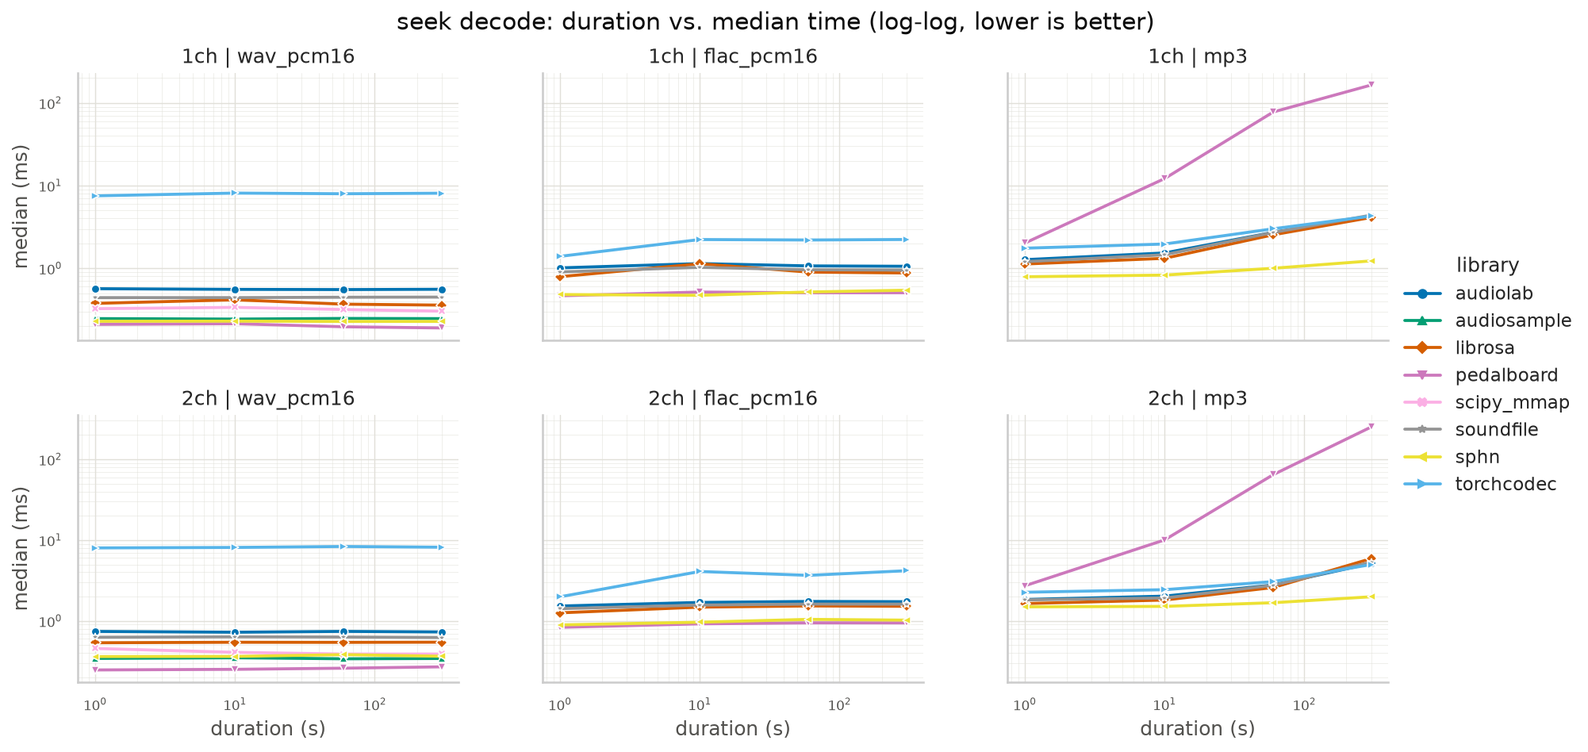
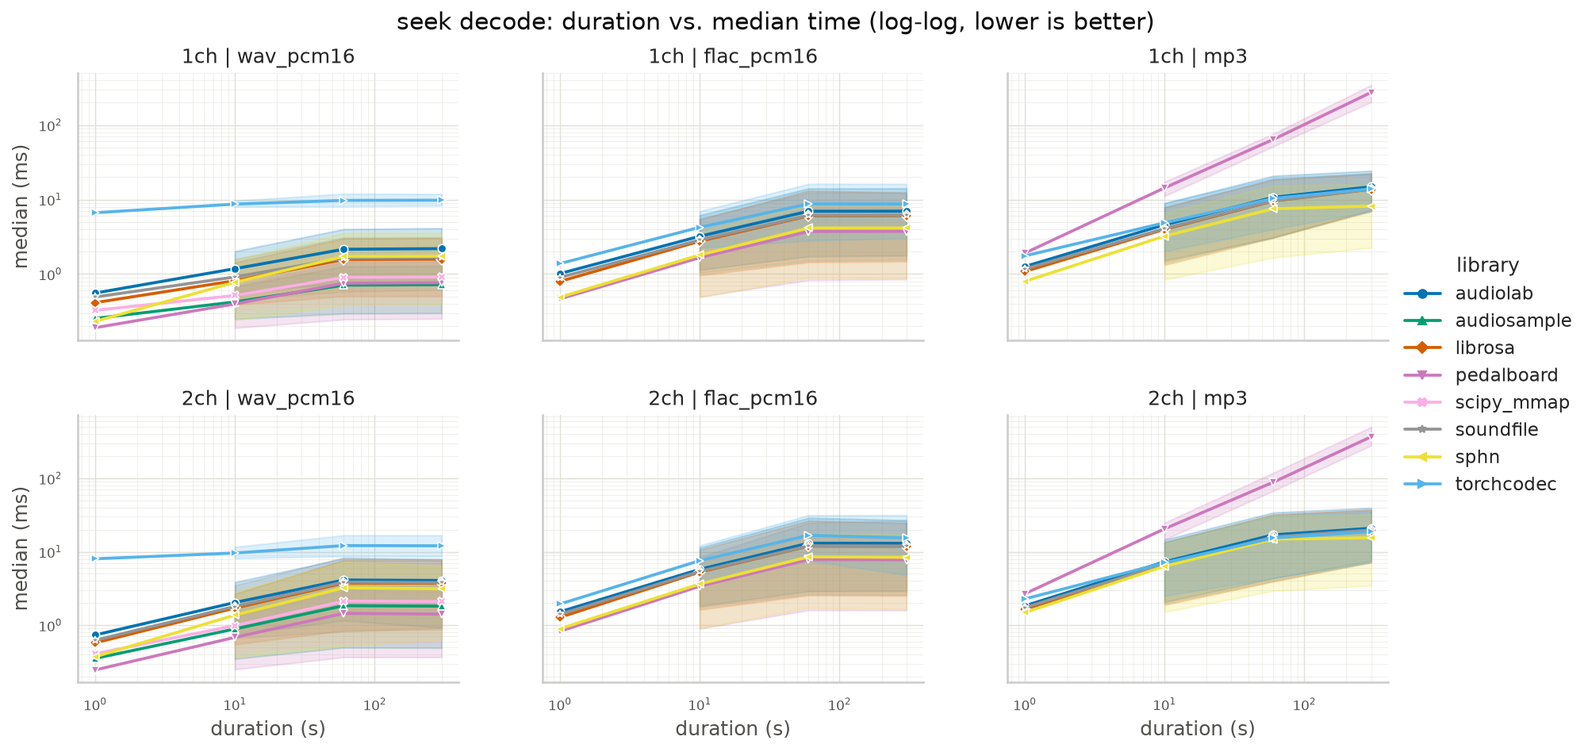
seektable

diff --git a/results/report.md b/results/report.md
@@ -12,22 +12,22 @@ Timings below are wall-clock, warm-page-cache decodes of a locally generated **s
 | PyTorch | 2.14.0+cu130 |
 | FFmpeg | ffmpeg version n8.0.1-48-g0592be14ff-20260116 Copyright (c) 2000-2025 the FFmpeg developers |
 | DYLD_FALLBACK_LIBRARY_PATH | - |
-| FLAC seektables | absent (seeking must scan frames) |
+| FLAC seektables | present (seeking can jump) |
 
 ## Libraries
 
-| Library | Version | Available | Seek | Notes | Error |
-| --- | --- | --- | --- | --- | --- |
-| soundfile | 0.14.0 | yes | yes | the correctness reference every other loader is checked against | - |
-| librosa | 1.0.0 | yes | yes | - | - |
-| scipy | 1.18.1 | yes | no | WAV only; scipy.io.wavfile has no seek API | - |
-| scipy_mmap | 1.18.1 | yes | yes | WAV only, memory-mapped; scipy's mmap mode cannot open 24-bit ('3-byte container') WAV, which surfaces as a decode error for that subtype | - |
-| audioread | 3.1.0 | yes | no | full-file only, no seek API; audioread always yields 16-bit PCM buffers, so it cannot pass the exact gate for 24-bit or float32 WAV sources | - |
-| pedalboard | 0.9.25 | yes | yes | - | - |
-| torchcodec | 0.16.0+cu130 | yes | yes | imports cleanly even when its native FFmpeg bindings can't load; only the decode smoke test below catches that (see docs/refactor-design.md) | - |
-| audiolab | 0.5.2 | yes | yes | - | - |
-| audiosample | 2.2.12 | yes | yes | integer-PCM WAV only: float WAV, FLAC and MP3 go through its PyAV path, which is incompatible with PyAV 18 (Flags.FAST_SEEK) | - |
-| sphn | 0.2.1 | yes | yes | MP3 decode returns a different frame count than soundfile's reference (decoder-delay disagreement); graded by the relaxed MP3 gate | - |
+| Library | Version | Available | Seek | Bytes | Notes | Error |
+| --- | --- | --- | --- | --- | --- | --- |
+| soundfile | 0.14.0 | yes | yes | yes | the correctness reference every other loader is checked against | - |
+| librosa | 1.0.0 | yes | yes | yes | - | - |
+| scipy | 1.18.1 | yes | no | yes | WAV only; scipy.io.wavfile has no seek API | - |
+| scipy_mmap | 1.18.1 | yes | yes | no | WAV only, memory-mapped; scipy's mmap mode cannot open 24-bit ('3-byte container') WAV, which surfaces as a decode error for that subtype | - |
+| audioread | 3.1.0 | yes | no | no | full-file only, no seek API; audioread always yields 16-bit PCM buffers, so it cannot pass the exact gate for 24-bit or float32 WAV sources | - |
+| pedalboard | 0.9.25 | yes | yes | yes | - | - |
+| torchcodec | 0.16.0+cu130 | yes | yes | yes | imports cleanly even when its native FFmpeg bindings can't load; only the decode smoke test below catches that (see docs/refactor-design.md) | - |
+| audiolab | 0.5.2 | yes | yes | yes | - | - |
+| audiosample | 2.2.12 | yes | yes | yes | integer-PCM WAV only: float WAV, FLAC and MP3 go through its PyAV path, which is incompatible with PyAV 18 (Flags.FAST_SEEK) | - |
+| sphn | 0.2.1 | yes | yes | no | MP3 decode returns a different frame count than soundfile's reference (decoder-delay disagreement); graded by the relaxed MP3 gate | - |
 
 **MP3 is graded by a relaxed gate** (decoded duration within 50 ms of the reference, RMS level within 0.5 dB on the common length) rather than the sample-exact gate WAV and FLAC are held to (1.5 LSB for integer PCM, `atol=1e-7` for float32), because MP3 decoders disagree on encoder delay and never match sample-for-sample. MP3 results therefore carry a weaker correctness guarantee than the WAV/FLAC results in this report.
 
@@ -35,79 +35,166 @@ Timings below are wall-clock, warm-page-cache decodes of a locally generated **s
 
 | Duration (s) | Channels | soundfile | librosa | scipy | scipy_mmap | audioread | pedalboard | torchcodec | audiolab | audiosample | sphn |
 | --- | --- | --- | --- | --- | --- | --- | --- | --- | --- | --- | --- |
-| 1 | 1 | 0.38 ms [0.36–0.56] | 0.38 ms [0.37–0.40] | 0.26 ms [0.22–0.28] | 0.30 ms [0.28–0.32] | 0.40 ms [0.37–0.44] | 0.19 ms [0.18–0.26] | 7.30 ms [6.55–7.89] | 0.60 ms [0.58–0.61] | 0.23 ms [0.22–0.25] | 0.25 ms [0.24–0.26] |
-| 1 | 2 | 0.56 ms [0.54–0.81] | 0.54 ms [0.52–0.59] | 0.33 ms [0.32–0.39] | 0.43 ms [0.40–0.46] | 0.54 ms [0.53–0.63] | 0.25 ms [0.24–0.28] | 8.48 ms [7.90–9.25] | 0.78 ms [0.75–0.80] | 0.32 ms [0.32–0.34] | 0.39 ms [0.38–0.40] |
-| 10 | 1 | 1.45 ms [1.42–1.50] | 1.45 ms [1.41–1.49] | 0.82 ms [0.79–0.88] | 0.83 ms [0.77–0.90] | 2.64 ms [2.21–2.77] | 0.71 ms [0.70–0.85] | 9.72 ms [9.65–9.99] | 2.05 ms [1.99–2.14] | 0.64 ms [0.62–0.68] | 1.71 ms [1.69–1.75] |
-| 10 | 2 | 3.35 ms [3.29–3.41] | 3.43 ms [3.36–3.50] | 1.91 ms [1.84–2.01] | 1.94 ms [1.87–2.07] | 3.93 ms [3.84–4.58] | 1.39 ms [1.32–1.67] | 11.57 ms [11.45–11.73] | 3.91 ms [3.84–4.04] | 1.66 ms [1.64–1.67] | 3.06 ms [3.04–3.17] |
-| 60 | 1 | 7.39 ms [7.31–7.56] | 7.43 ms [7.38–7.53] | 4.03 ms [3.90–4.21] | 3.75 ms [3.70–3.87] | 13.11 ms [12.43–15.11] | 3.99 ms [3.72–4.63] | 18.93 ms [18.18–19.23] | 9.97 ms [9.64–10.13] | 3.04 ms [3.00–3.14] | 9.75 ms [9.71–9.91] |
-| 60 | 2 | 19.57 ms [19.23–20.08] | 19.56 ms [19.48–19.79] | 11.36 ms [11.18–11.59] | 11.15 ms [10.95–11.77] | 23.82 ms [22.56–24.93] | 7.96 ms [7.57–9.04] | 29.84 ms [29.53–31.70] | 19.89 ms [19.66–20.44] | 9.21 ms [9.17–9.30] | 18.42 ms [18.38–18.60] |
-| 300 | 1 | 44.66 ms [44.21–45.27] | 43.80 ms [43.58–43.95] | 34.35 ms [33.20–37.52] | 29.97 ms [29.21–31.19] | 79.92 ms [77.88–87.37] | 27.43 ms [26.11–28.27] | 106.75 ms [84.65–109.12] | 53.81 ms [53.35–54.60] | 20.86 ms [20.54–21.16] | 82.42 ms [82.23–82.78] |
-| 300 | 2 | 126.38 ms [126.10–126.70] | 127.54 ms [126.99–128.44] | 122.33 ms [118.35–124.99] | 102.43 ms [101.03–103.57] | 182.11 ms [174.66–185.50] | 55.96 ms [55.51–56.72] | 154.16 ms [151.89–174.35] | 112.30 ms [111.53–112.90] | 100.42 ms [100.05–100.91] | 155.32 ms [154.93–156.88] |
+| 1 | 1 | 0.41 ms [0.38–0.47] | 0.40 ms [0.37–0.42] | 0.24 ms [0.24–0.25] | 0.32 ms [0.31–0.33] | 0.41 ms [0.40–0.41] | 0.19 ms [0.18–0.20] | 6.64 ms [6.59–6.72] | 0.58 ms [0.58–0.61] | 0.23 ms [0.23–0.24] | 0.27 ms [0.26–0.31] |
+| 1 | 2 | 0.56 ms [0.55–0.57] | 0.55 ms [0.53–0.58] | 0.34 ms [0.33–0.37] | 0.41 ms [0.39–0.42] | 0.55 ms [0.54–0.56] | 0.24 ms [0.24–0.25] | 7.98 ms [7.88–8.19] | 0.77 ms [0.75–0.79] | 0.34 ms [0.33–0.34] | 0.40 ms [0.39–0.40] |
+| 10 | 1 | 1.47 ms [1.46–2.07] | 1.44 ms [1.42–1.49] | 0.79 ms [0.79–0.83] | 0.80 ms [0.79–0.81] | 2.20 ms [2.16–2.25] | 0.70 ms [0.69–0.72] | 9.75 ms [9.68–9.79] | 2.06 ms [2.03–2.10] | 0.66 ms [0.65–0.69] | 1.66 ms [1.64–1.69] |
+| 10 | 2 | 3.42 ms [3.39–3.50] | 3.45 ms [3.38–3.51] | 1.82 ms [1.82–1.95] | 1.82 ms [1.79–1.86] | 3.81 ms [3.78–3.85] | 1.32 ms [1.32–1.33] | 11.68 ms [11.50–11.97] | 3.88 ms [3.84–3.93] | 1.67 ms [1.65–1.73] | 3.08 ms [3.05–3.09] |
+| 60 | 1 | 7.36 ms [7.29–7.42] | 7.36 ms [7.32–7.47] | 3.99 ms [3.94–4.16] | 3.83 ms [3.78–3.87] | 12.37 ms [12.29–12.47] | 3.61 ms [3.60–3.76] | 18.82 ms [18.15–19.16] | 9.62 ms [9.47–9.83] | 2.98 ms [2.94–3.36] | 9.90 ms [9.85–10.02] |
+| 60 | 2 | 19.74 ms [19.63–19.98] | 19.66 ms [19.47–19.82] | 11.56 ms [11.35–11.61] | 11.23 ms [10.97–11.26] | 23.06 ms [22.95–23.11] | 7.47 ms [7.44–7.67] | 29.93 ms [29.74–30.56] | 19.98 ms [19.49–20.56] | 9.35 ms [9.33–9.41] | 19.47 ms [19.39–19.70] |
+| 300 | 1 | 44.99 ms [44.66–45.20] | 43.71 ms [43.52–43.96] | 32.37 ms [32.33–32.73] | 28.95 ms [28.89–29.15] | 73.87 ms [73.63–74.28] | 25.65 ms [25.48–27.39] | 80.44 ms [76.24–105.06] | 53.97 ms [53.18–54.22] | 20.89 ms [20.47–20.93] | 83.62 ms [83.41–83.95] |
+| 300 | 2 | 128.87 ms [128.57–129.67] | 129.26 ms [128.94–129.54] | 111.93 ms [111.65–113.05] | 98.58 ms [98.37–98.68] | 171.75 ms [171.55–172.06] | 53.07 ms [52.71–54.46] | 154.53 ms [154.10–155.58] | 113.05 ms [111.95–113.27] | 100.51 ms [100.39–101.34] | 154.91 ms [154.50–155.30] |
 
 ## wav_pcm16 / seek
 
+| Duration (s) | Channels | Chunk (s) | soundfile | librosa | scipy | scipy_mmap | audioread | pedalboard | torchcodec | audiolab | audiosample | sphn |
+| --- | --- | --- | --- | --- | --- | --- | --- | --- | --- | --- | --- | --- |
+| 1 | 1 | 1.0 | 0.49 ms [0.44–0.52] | 0.41 ms [0.38–0.43] | unsupported | 0.33 ms [0.32–0.33] | unsupported | 0.19 ms [0.19–0.20] | 6.66 ms [6.56–6.84] | 0.56 ms [0.54–0.59] | 0.25 ms [0.25–0.27] | 0.23 ms [0.23–0.26] |
+| 1 | 2 | 1.0 | 0.62 ms [0.61–0.72] | 0.57 ms [0.53–0.58] | unsupported | 0.41 ms [0.39–0.43] | unsupported | 0.25 ms [0.24–0.25] | 8.02 ms [7.85–8.16] | 0.74 ms [0.72–0.76] | 0.35 ms [0.34–0.37] | 0.37 ms [0.37–0.39] |
+| 10 | 1 | 1.0 | 0.46 ms [0.45–0.51] | 0.39 ms [0.37–0.42] | unsupported | 0.33 ms [0.31–0.35] | unsupported | 0.19 ms [0.19–0.20] | 8.05 ms [7.97–8.23] | 0.55 ms [0.55–0.56] | 0.25 ms [0.24–0.27] | 0.24 ms [0.24–0.25] |
+| 10 | 1 | 3.0 | 0.71 ms [0.69–0.74] | 0.63 ms [0.61–0.63] | unsupported | 0.42 ms [0.41–0.43] | unsupported | 0.30 ms [0.29–0.31] | 8.36 ms [8.27–8.45] | 0.97 ms [0.93–0.98] | 0.34 ms [0.32–0.35] | 0.53 ms [0.52–0.54] |
+| 10 | 1 | 10.0 | 1.58 ms [1.53–1.65] | 1.43 ms [1.40–1.48] | unsupported | 0.80 ms [0.78–0.82] | unsupported | 0.70 ms [0.69–0.71] | 9.65 ms [9.56–9.72] | 2.02 ms [2.01–2.08] | 0.68 ms [0.67–0.78] | 1.56 ms [1.55–1.59] |
+| 10 | 2 | 1.0 | 0.67 ms [0.65–0.95] | 0.55 ms [0.54–0.58] | unsupported | 0.41 ms [0.40–0.42] | unsupported | 0.25 ms [0.24–0.26] | 8.18 ms [8.05–8.22] | 0.74 ms [0.72–0.75] | 0.35 ms [0.34–0.42] | 0.37 ms [0.36–0.38] |
+| 10 | 2 | 3.0 | 1.25 ms [1.20–1.26] | 1.15 ms [1.12–1.33] | unsupported | 0.72 ms [0.69–0.79] | unsupported | 0.48 ms [0.47–0.50] | 9.03 ms [8.87–9.13] | 1.52 ms [1.49–1.56] | 0.64 ms [0.62–0.65] | 0.88 ms [0.87–0.88] |
+| 10 | 2 | 10.0 | 3.48 ms [3.46–3.55] | 3.44 ms [3.40–3.47] | unsupported | 1.83 ms [1.81–1.90] | unsupported | 1.32 ms [1.30–1.33] | 11.65 ms [11.52–11.89] | 3.86 ms [3.80–3.91] | 1.69 ms [1.67–1.75] | 2.87 ms [2.85–2.95] |
+| 60 | 1 | 1.0 | 0.47 ms [0.44–0.50] | 0.38 ms [0.36–0.40] | unsupported | 0.32 ms [0.32–0.35] | unsupported | 0.19 ms [0.18–0.19] | 7.98 ms [7.95–8.11] | 0.56 ms [0.55–0.59] | 0.25 ms [0.25–0.26] | 0.24 ms [0.23–0.24] |
+| 60 | 1 | 3.0 | 0.69 ms [0.68–0.75] | 0.63 ms [0.62–0.84] | unsupported | 0.45 ms [0.44–0.47] | unsupported | 0.30 ms [0.29–0.31] | 8.27 ms [8.14–8.37] | 0.96 ms [0.95–0.98] | 0.34 ms [0.33–0.34] | 0.53 ms [0.51–0.54] |
+| 60 | 1 | 10.0 | 1.52 ms [1.48–1.58] | 1.48 ms [1.43–1.52] | unsupported | 0.83 ms [0.81–0.85] | unsupported | 0.69 ms [0.69–0.71] | 9.52 ms [9.41–9.63] | 2.06 ms [2.02–2.09] | 0.67 ms [0.66–0.70] | 1.56 ms [1.54–1.61] |
+| 60 | 1 | 30.0 | 3.89 ms [3.85–3.93] | 3.79 ms [3.76–3.83] | unsupported | 2.02 ms [2.00–2.10] | unsupported | 1.83 ms [1.81–1.91] | 13.21 ms [13.10–13.39] | 5.03 ms [4.98–5.14] | 1.58 ms [1.56–1.61] | 4.55 ms [4.52–4.63] |
+| 60 | 2 | 1.0 | 0.67 ms [0.62–0.68] | 0.54 ms [0.53–0.56] | unsupported | 0.45 ms [0.43–0.47] | unsupported | 0.26 ms [0.25–0.28] | 8.36 ms [8.29–8.39] | 0.77 ms [0.72–0.82] | 0.35 ms [0.34–0.36] | 0.39 ms [0.39–0.39] |
+| 60 | 2 | 3.0 | 1.26 ms [1.23–1.31] | 1.15 ms [1.14–1.16] | unsupported | 0.71 ms [0.70–0.75] | unsupported | 0.48 ms [0.47–0.49] | 9.04 ms [8.91–9.22] | 1.54 ms [1.50–1.56] | 0.64 ms [0.62–0.68] | 0.93 ms [0.91–0.94] |
+| 60 | 2 | 10.0 | 3.51 ms [3.48–3.61] | 3.42 ms [3.38–3.48] | unsupported | 1.85 ms [1.83–1.89] | unsupported | 1.34 ms [1.33–1.36] | 11.82 ms [11.77–11.92] | 3.89 ms [3.79–4.05] | 1.69 ms [1.67–1.72] | 2.86 ms [2.84–2.89] |
+| 60 | 2 | 30.0 | 10.03 ms [9.90–10.23] | 9.88 ms [9.74–10.02] | unsupported | 5.49 ms [5.45–5.61] | unsupported | 3.72 ms [3.69–3.89] | 19.35 ms [19.25–19.49] | 10.32 ms [10.12–10.38] | 4.70 ms [4.69–4.78] | 8.77 ms [8.73–8.82] |
+| 300 | 1 | 1.0 | 0.49 ms [0.46–0.51] | 0.38 ms [0.37–0.40] | unsupported | 0.37 ms [0.36–0.37] | unsupported | 0.20 ms [0.19–0.20] | 8.12 ms [8.08–8.26] | 0.55 ms [0.52–0.60] | 0.25 ms [0.25–0.27] | 0.24 ms [0.23–0.25] |
+| 300 | 1 | 3.0 | 0.73 ms [0.72–0.75] | 0.63 ms [0.62–0.69] | unsupported | 0.45 ms [0.42–0.46] | unsupported | 0.31 ms [0.30–0.31] | 8.49 ms [8.46–8.51] | 0.97 ms [0.94–1.00] | 0.34 ms [0.34–0.35] | 0.54 ms [0.53–0.55] |
+| 300 | 1 | 10.0 | 1.58 ms [1.54–1.60] | 1.47 ms [1.42–1.50] | unsupported | 0.83 ms [0.82–0.85] | unsupported | 0.71 ms [0.70–0.72] | 9.61 ms [9.54–9.73] | 2.06 ms [2.04–2.11] | 0.68 ms [0.67–0.70] | 1.58 ms [1.58–1.62] |
+| 300 | 1 | 30.0 | 3.90 ms [3.85–3.98] | 3.85 ms [3.79–3.89] | unsupported | 2.01 ms [2.00–2.08] | unsupported | 1.85 ms [1.84–1.91] | 13.00 ms [12.78–13.08] | 5.19 ms [5.15–5.25] | 1.60 ms [1.57–1.66] | 4.58 ms [4.55–4.64] |
+| 300 | 2 | 1.0 | 0.63 ms [0.61–0.68] | 0.58 ms [0.55–0.59] | unsupported | 0.44 ms [0.41–0.60] | unsupported | 0.25 ms [0.24–0.27] | 8.23 ms [8.15–8.35] | 0.72 ms [0.70–0.77] | 0.35 ms [0.34–0.37] | 0.38 ms [0.38–0.39] |
+| 300 | 2 | 3.0 | 1.22 ms [1.20–1.26] | 1.17 ms [1.12–1.20] | unsupported | 0.71 ms [0.71–0.75] | unsupported | 0.48 ms [0.48–0.49] | 9.03 ms [8.91–12.67] | 1.52 ms [1.48–1.53] | 0.64 ms [0.63–0.67] | 0.88 ms [0.87–0.91] |
+| 300 | 2 | 10.0 | 3.48 ms [3.43–3.61] | 3.44 ms [3.39–3.49] | unsupported | 1.88 ms [1.82–1.89] | unsupported | 1.30 ms [1.29–1.36] | 11.68 ms [11.54–11.86] | 3.85 ms [3.79–3.89] | 1.66 ms [1.64–1.68] | 2.92 ms [2.91–2.93] |
+| 300 | 2 | 30.0 | 9.89 ms [9.75–10.01] | 9.81 ms [9.71–9.90] | unsupported | 5.38 ms [5.31–5.59] | unsupported | 3.62 ms [3.61–3.74] | 19.32 ms [19.13–19.75] | 10.18 ms [10.13–10.27] | 4.62 ms [4.62–4.73] | 8.36 ms [8.31–8.46] |
+
+## wav_pcm16 / bytes
+
 | Duration (s) | Channels | soundfile | librosa | scipy | scipy_mmap | audioread | pedalboard | torchcodec | audiolab | audiosample | sphn |
 | --- | --- | --- | --- | --- | --- | --- | --- | --- | --- | --- | --- |
-| 1 | 1 | 0.44 ms [0.43–0.48] | 0.38 ms [0.37–0.40] | unsupported | 0.32 ms [0.29–0.39] | unsupported | 0.21 ms [0.19–0.25] | 7.53 ms [6.68–7.86] | 0.57 ms [0.55–0.59] | 0.25 ms [0.24–0.26] | 0.23 ms [0.22–0.29] |
-| 1 | 2 | 0.63 ms [0.59–0.71] | 0.54 ms [0.53–0.56] | unsupported | 0.46 ms [0.41–0.49] | unsupported | 0.25 ms [0.24–0.28] | 8.01 ms [7.85–9.40] | 0.74 ms [0.72–0.79] | 0.34 ms [0.33–0.36] | 0.36 ms [0.35–0.37] |
-| 10 | 1 | 0.44 ms [0.43–0.80] | 0.42 ms [0.36–0.48] | unsupported | 0.34 ms [0.29–0.38] | unsupported | 0.21 ms [0.18–0.25] | 8.12 ms [8.00–8.43] | 0.56 ms [0.54–0.59] | 0.24 ms [0.24–0.25] | 0.23 ms [0.23–0.23] |
-| 10 | 2 | 0.63 ms [0.62–0.65] | 0.54 ms [0.52–0.56] | unsupported | 0.41 ms [0.39–0.45] | unsupported | 0.25 ms [0.24–0.32] | 8.12 ms [8.06–8.25] | 0.72 ms [0.70–0.76] | 0.35 ms [0.33–0.39] | 0.36 ms [0.36–0.37] |
-| 60 | 1 | 0.45 ms [0.44–0.46] | 0.37 ms [0.35–0.42] | unsupported | 0.32 ms [0.29–0.34] | unsupported | 0.20 ms [0.19–0.26] | 7.97 ms [7.86–8.05] | 0.55 ms [0.53–0.59] | 0.25 ms [0.24–0.25] | 0.23 ms [0.22–0.24] |
-| 60 | 2 | 0.63 ms [0.62–0.65] | 0.54 ms [0.53–0.56] | unsupported | 0.39 ms [0.38–0.43] | unsupported | 0.26 ms [0.25–0.30] | 8.34 ms [8.23–8.42] | 0.74 ms [0.69–0.77] | 0.34 ms [0.33–0.35] | 0.38 ms [0.37–0.39] |
-| 300 | 1 | 0.45 ms [0.43–0.46] | 0.36 ms [0.35–0.38] | unsupported | 0.30 ms [0.29–0.33] | unsupported | 0.19 ms [0.18–0.22] | 8.10 ms [7.97–8.20] | 0.56 ms [0.53–0.58] | 0.25 ms [0.24–0.27] | 0.23 ms [0.22–0.24] |
-| 300 | 2 | 0.62 ms [0.61–0.64] | 0.55 ms [0.52–0.59] | unsupported | 0.39 ms [0.38–0.45] | unsupported | 0.27 ms [0.25–0.30] | 8.17 ms [8.08–8.35] | 0.73 ms [0.70–0.75] | 0.34 ms [0.33–0.36] | 0.37 ms [0.35–0.39] |
+| 1 | 1 | 0.43 ms [0.42–0.45] | 0.40 ms [0.36–0.41] | 0.18 ms [0.17–0.18] | unsupported | unsupported | 0.18 ms [0.18–0.19] | 6.64 ms [6.59–6.73] | 0.58 ms [0.57–0.60] | 0.16 ms [0.16–0.16] | unsupported |
+| 1 | 2 | 0.56 ms [0.54–0.58] | 0.53 ms [0.51–0.56] | 0.27 ms [0.27–0.29] | unsupported | unsupported | 0.23 ms [0.23–0.24] | 7.90 ms [7.80–8.02] | 0.76 ms [0.74–0.78] | 0.25 ms [0.25–0.26] | unsupported |
+| 10 | 1 | 1.47 ms [1.42–1.58] | 1.41 ms [1.37–1.49] | 0.68 ms [0.67–0.69] | unsupported | unsupported | 0.70 ms [0.68–0.72] | 9.56 ms [9.43–9.67] | 2.09 ms [2.06–2.16] | 0.53 ms [0.52–0.53] | unsupported |
+| 10 | 2 | 3.28 ms [3.20–3.45] | 3.31 ms [3.27–3.34] | 1.65 ms [1.64–1.66] | unsupported | unsupported | 1.28 ms [1.25–1.32] | 11.40 ms [11.24–11.48] | 3.75 ms [3.64–3.90] | 1.42 ms [1.40–1.43] | unsupported |
+| 60 | 1 | 6.81 ms [6.60–6.89] | 6.86 ms [6.69–7.04] | 3.62 ms [3.53–3.73] | unsupported | unsupported | 3.59 ms [3.56–3.70] | 18.24 ms [17.40–18.48] | 9.37 ms [9.26–9.61] | 2.66 ms [2.62–2.68] | unsupported |
+| 60 | 2 | 18.25 ms [17.93–18.70] | 18.32 ms [18.12–18.55] | 20.52 ms [20.46–20.68] | unsupported | unsupported | 7.35 ms [7.08–8.02] | 28.91 ms [28.54–29.05] | 18.54 ms [18.32–18.77] | 8.55 ms [8.52–8.61] | unsupported |
+| 300 | 1 | 42.22 ms [41.85–42.76] | 41.17 ms [40.57–41.50] | 30.86 ms [30.74–30.97] | unsupported | unsupported | 24.93 ms [24.76–25.30] | 101.55 ms [82.74–104.06] | 52.34 ms [51.72–52.95] | 19.71 ms [19.22–19.98] | unsupported |
+| 300 | 2 | 123.12 ms [122.29–123.57] | 122.69 ms [122.21–124.06] | 126.15 ms [125.71–126.69] | unsupported | unsupported | 77.65 ms [77.35–78.44] | 149.21 ms [148.23–150.11] | 107.52 ms [106.65–107.79] | 102.93 ms [102.82–103.11] | unsupported |
 
 ## flac_pcm16 / full
 
 | Duration (s) | Channels | soundfile | librosa | scipy | scipy_mmap | audioread | pedalboard | torchcodec | audiolab | audiosample | sphn |
 | --- | --- | --- | --- | --- | --- | --- | --- | --- | --- | --- | --- |
-| 1 | 1 | 0.82 ms [0.81–1.04] | 0.79 ms [0.77–0.82] | unsupported | unsupported | 14.99 ms [14.16–16.00] | 0.45 ms [0.44–0.50] | 1.47 ms [1.39–1.59] | 1.04 ms [1.02–1.08] | unsupported | 0.50 ms [0.49–0.51] |
-| 1 | 2 | 1.33 ms [1.32–1.36] | 1.26 ms [1.25–1.27] | unsupported | unsupported | 17.04 ms [14.68–18.18] | 0.82 ms [0.81–0.92] | 2.07 ms [1.96–2.21] | 1.56 ms [1.51–1.60] | unsupported | 0.92 ms [0.91–0.99] |
-| 10 | 1 | 5.45 ms [5.41–5.47] | 5.41 ms [5.38–6.57] | unsupported | unsupported | 20.27 ms [17.28–23.24] | 3.55 ms [3.33–3.64] | 6.93 ms [6.89–7.04] | 6.15 ms [6.13–6.23] | unsupported | 3.91 ms [3.89–3.93] |
-| 10 | 2 | 10.65 ms [10.62–10.74] | 10.53 ms [10.51–10.55] | unsupported | unsupported | 21.28 ms [19.60–24.94] | 7.23 ms [7.05–7.59] | 12.07 ms [12.02–12.13] | 11.20 ms [11.17–11.28] | unsupported | 7.83 ms [7.79–7.93] |
-| 60 | 1 | 31.10 ms [30.93–31.20] | 32.69 ms [31.99–33.26] | unsupported | unsupported | 33.16 ms [30.82–35.88] | 20.21 ms [20.05–20.31] | 38.10 ms [37.43–38.60] | 33.55 ms [33.42–33.60] | unsupported | 22.66 ms [22.61–22.76] |
-| 60 | 2 | 62.81 ms [62.67–63.09] | 62.33 ms [62.25–62.55] | unsupported | unsupported | 48.98 ms [47.59–50.67] | 42.82 ms [42.57–45.07] | 67.93 ms [67.79–68.80] | 63.81 ms [63.80–64.05] | unsupported | 46.55 ms [46.45–46.73] |
-| 300 | 1 | 162.74 ms [162.44–163.35] | 161.55 ms [161.11–161.75] | unsupported | unsupported | 115.55 ms [108.17–156.38] | 108.93 ms [107.95–110.03] | 212.62 ms [205.47–226.58] | 174.15 ms [173.75–174.36] | unsupported | 146.81 ms [146.70–147.17] |
-| 300 | 2 | 342.77 ms [342.04–344.67] | 359.17 ms [357.84–362.02] | unsupported | unsupported | 238.54 ms [233.16–252.63] | 230.83 ms [230.10–234.35] | 369.83 ms [368.90–370.95] | 331.44 ms [331.31–332.75] | unsupported | 295.24 ms [294.69–296.12] |
+| 1 | 1 | 0.83 ms [0.82–0.84] | 0.79 ms [0.78–0.94] | unsupported | unsupported | 18.36 ms [17.92–18.59] | 0.46 ms [0.45–0.47] | 1.42 ms [1.36–1.53] | 1.04 ms [1.02–1.04] | unsupported | 0.51 ms [0.50–0.52] |
+| 1 | 2 | 1.32 ms [1.30–1.40] | 1.27 ms [1.26–1.29] | unsupported | unsupported | 18.92 ms [18.46–19.86] | 0.84 ms [0.82–0.91] | 1.95 ms [1.88–1.97] | 1.56 ms [1.54–1.58] | unsupported | 0.93 ms [0.93–0.94] |
+| 10 | 1 | 5.44 ms [5.42–5.51] | 5.40 ms [5.36–5.54] | unsupported | unsupported | 21.26 ms [20.62–22.05] | 3.34 ms [3.32–3.38] | 6.97 ms [6.91–6.99] | 6.19 ms [6.16–6.24] | unsupported | 3.89 ms [3.86–3.90] |
+| 10 | 2 | 10.70 ms [10.65–10.79] | 10.62 ms [10.56–10.70] | unsupported | unsupported | 25.12 ms [24.70–26.33] | 7.00 ms [6.99–7.08] | 12.14 ms [12.07–12.18] | 11.38 ms [11.34–11.53] | unsupported | 7.83 ms [7.80–7.87] |
+| 60 | 1 | 31.07 ms [31.00–31.16] | 30.92 ms [30.81–31.14] | unsupported | unsupported | 34.63 ms [34.12–35.93] | 19.54 ms [19.42–19.69] | 37.81 ms [37.53–38.47] | 34.76 ms [34.73–34.86] | unsupported | 22.60 ms [22.56–22.65] |
+| 60 | 2 | 63.02 ms [62.90–63.14] | 62.90 ms [62.79–62.95] | unsupported | unsupported | 52.41 ms [50.95–53.68] | 41.48 ms [41.31–41.62] | 67.86 ms [67.80–68.00] | 66.41 ms [66.22–66.46] | unsupported | 47.39 ms [47.32–47.48] |
+| 300 | 1 | 162.73 ms [162.58–163.59] | 161.64 ms [161.03–161.79] | unsupported | unsupported | 111.13 ms [109.76–112.21] | 104.87 ms [104.56–105.23] | 225.04 ms [220.07–226.05] | 181.19 ms [180.90–181.46] | unsupported | 147.39 ms [146.83–147.62] |
+| 300 | 2 | 344.22 ms [343.93–346.36] | 344.41 ms [343.02–344.97] | unsupported | unsupported | 232.41 ms [230.80–236.68] | 222.91 ms [222.36–223.18] | 367.91 ms [367.37–390.59] | 345.13 ms [344.93–345.57] | unsupported | 293.68 ms [293.43–294.56] |
 
 ## flac_pcm16 / seek
 
+| Duration (s) | Channels | Chunk (s) | soundfile | librosa | scipy | scipy_mmap | audioread | pedalboard | torchcodec | audiolab | audiosample | sphn |
+| --- | --- | --- | --- | --- | --- | --- | --- | --- | --- | --- | --- | --- |
+| 1 | 1 | 1.0 | 0.90 ms [0.89–0.92] | 0.80 ms [0.79–0.81] | unsupported | unsupported | unsupported | 0.46 ms [0.46–0.49] | 1.38 ms [1.35–1.41] | 1.01 ms [0.99–1.05] | unsupported | 0.49 ms [0.49–0.49] |
+| 1 | 2 | 1.0 | 1.41 ms [1.40–1.70] | 1.28 ms [1.27–1.32] | unsupported | unsupported | unsupported | 0.83 ms [0.82–0.85] | 1.94 ms [1.88–1.97] | 1.52 ms [1.49–1.54] | unsupported | 0.90 ms [0.89–0.90] |
+| 10 | 1 | 1.0 | 1.04 ms [1.02–1.27] | 0.96 ms [0.95–0.98] | unsupported | unsupported | unsupported | 0.50 ms [0.49–0.50] | 2.25 ms [2.19–2.30] | 1.14 ms [1.12–1.15] | unsupported | 0.49 ms [0.48–0.49] |
+| 10 | 1 | 3.0 | 2.00 ms [1.98–2.26] | 1.92 ms [1.90–1.95] | unsupported | unsupported | unsupported | 1.14 ms [1.13–1.15] | 3.49 ms [3.46–3.51] | 2.35 ms [2.34–2.37] | unsupported | 1.21 ms [1.21–1.22] |
+| 10 | 1 | 10.0 | 5.57 ms [5.54–5.59] | 5.40 ms [5.36–5.51] | unsupported | unsupported | unsupported | 3.34 ms [3.31–3.37] | 6.99 ms [6.97–7.05] | 6.16 ms [6.15–6.22] | unsupported | 3.71 ms [3.71–3.73] |
+| 10 | 2 | 1.0 | 1.75 ms [1.73–1.77] | 1.63 ms [1.62–1.67] | unsupported | unsupported | unsupported | 0.90 ms [0.90–0.92] | 3.61 ms [3.50–4.12] | 1.82 ms [1.82–1.83] | unsupported | 0.91 ms [0.90–0.92] |
+| 10 | 2 | 3.0 | 3.71 ms [3.69–3.79] | 3.62 ms [3.60–3.67] | unsupported | unsupported | unsupported | 2.23 ms [2.22–2.26] | 6.94 ms [6.83–7.04] | 4.14 ms [4.12–4.21] | unsupported | 2.41 ms [2.39–2.58] |
+| 10 | 2 | 10.0 | 10.78 ms [10.74–10.87] | 10.64 ms [10.59–10.75] | unsupported | unsupported | unsupported | 7.05 ms [6.97–7.09] | 12.18 ms [12.12–12.26] | 11.36 ms [11.34–11.40] | unsupported | 7.62 ms [7.61–7.66] |
+| 60 | 1 | 1.0 | 0.98 ms [0.96–1.03] | 0.91 ms [0.89–0.91] | unsupported | unsupported | unsupported | 0.51 ms [0.50–0.53] | 2.23 ms [2.16–2.25] | 1.10 ms [1.06–1.12] | unsupported | 0.50 ms [0.49–0.57] |
+| 60 | 1 | 3.0 | 2.04 ms [2.01–2.12] | 1.98 ms [1.96–1.99] | unsupported | unsupported | unsupported | 1.15 ms [1.14–1.17] | 4.53 ms [4.49–4.55] | 2.37 ms [2.34–2.41] | unsupported | 1.29 ms [1.28–1.36] |
+| 60 | 1 | 10.0 | 5.64 ms [5.57–5.68] | 5.54 ms [5.53–5.64] | unsupported | unsupported | unsupported | 3.39 ms [3.37–3.41] | 8.06 ms [8.04–8.12] | 6.41 ms [6.40–6.44] | unsupported | 3.78 ms [3.78–3.82] |
+| 60 | 1 | 30.0 | 15.88 ms [15.84–15.98] | 15.75 ms [15.66–15.80] | unsupported | unsupported | unsupported | 9.87 ms [9.81–9.96] | 20.11 ms [20.02–20.19] | 18.01 ms [17.95–18.15] | unsupported | 11.02 ms [10.99–11.10] |
+| 60 | 2 | 1.0 | 1.60 ms [1.54–1.62] | 1.48 ms [1.45–1.48] | unsupported | unsupported | unsupported | 0.91 ms [0.90–0.92] | 7.04 ms [6.98–7.10] | 1.68 ms [1.67–1.70] | unsupported | 0.98 ms [0.97–0.99] |
+| 60 | 2 | 3.0 | 3.72 ms [3.68–3.81] | 3.64 ms [3.59–3.66] | unsupported | unsupported | unsupported | 2.30 ms [2.29–2.31] | 8.05 ms [8.00–8.13] | 4.12 ms [4.10–4.18] | unsupported | 2.48 ms [2.47–2.49] |
+| 60 | 2 | 10.0 | 10.97 ms [10.96–11.02] | 10.85 ms [10.82–10.89] | unsupported | unsupported | unsupported | 7.11 ms [7.07–7.18] | 14.97 ms [14.95–15.09] | 11.81 ms [11.77–11.90] | unsupported | 7.78 ms [7.76–7.81] |
+| 60 | 2 | 30.0 | 31.88 ms [31.86–32.19] | 31.77 ms [31.62–31.95] | unsupported | unsupported | unsupported | 20.96 ms [20.87–21.12] | 37.02 ms [36.80–37.25] | 34.70 ms [34.66–34.82] | unsupported | 22.89 ms [22.82–23.24] |
+| 300 | 1 | 1.0 | 1.03 ms [1.02–1.08] | 0.98 ms [0.95–1.01] | unsupported | unsupported | unsupported | 0.53 ms [0.53–0.55] | 2.57 ms [2.52–2.60] | 1.12 ms [1.08–1.18] | unsupported | 0.53 ms [0.52–0.54] |
+| 300 | 1 | 3.0 | 2.10 ms [2.06–2.18] | 1.98 ms [1.96–2.00] | unsupported | unsupported | unsupported | 1.17 ms [1.16–1.17] | 3.53 ms [3.46–3.65] | 2.42 ms [2.41–2.50] | unsupported | 1.25 ms [1.25–1.26] |
+| 300 | 1 | 10.0 | 5.68 ms [5.62–5.70] | 5.58 ms [5.54–5.68] | unsupported | unsupported | unsupported | 3.39 ms [3.37–3.46] | 8.35 ms [8.33–8.52] | 6.36 ms [6.32–6.39] | unsupported | 3.81 ms [3.79–4.29] |
+| 300 | 1 | 30.0 | 15.92 ms [15.80–16.06] | 15.81 ms [15.71–15.86] | unsupported | unsupported | unsupported | 9.87 ms [9.80–9.96] | 20.48 ms [20.30–20.52] | 18.03 ms [17.98–18.13] | unsupported | 11.04 ms [11.02–11.07] |
+| 300 | 2 | 1.0 | 1.59 ms [1.58–1.60] | 1.53 ms [1.52–1.55] | unsupported | unsupported | unsupported | 0.93 ms [0.93–0.93] | 3.68 ms [3.66–3.71] | 1.70 ms [1.65–1.72] | unsupported | 0.92 ms [0.91–0.95] |
+| 300 | 2 | 3.0 | 3.62 ms [3.59–3.64] | 3.52 ms [3.50–3.56] | unsupported | unsupported | unsupported | 2.27 ms [2.26–2.29] | 6.02 ms [5.97–6.11] | 4.13 ms [4.08–4.15] | unsupported | 2.38 ms [2.38–2.41] |
+| 300 | 2 | 10.0 | 10.92 ms [10.87–10.99] | 10.87 ms [10.82–10.88] | unsupported | unsupported | unsupported | 7.12 ms [7.04–7.19] | 15.11 ms [15.07–15.17] | 11.80 ms [11.79–11.88] | unsupported | 7.73 ms [7.71–7.74] |
+| 300 | 2 | 30.0 | 31.74 ms [31.65–31.89] | 31.59 ms [31.57–31.78] | unsupported | unsupported | unsupported | 20.73 ms [20.66–20.83] | 36.99 ms [36.91–37.11] | 34.52 ms [34.40–34.59] | unsupported | 22.59 ms [22.57–22.66] |
+
+## flac_pcm16 / bytes
+
 | Duration (s) | Channels | soundfile | librosa | scipy | scipy_mmap | audioread | pedalboard | torchcodec | audiolab | audiosample | sphn |
 | --- | --- | --- | --- | --- | --- | --- | --- | --- | --- | --- | --- |
-| 1 | 1 | 0.90 ms [0.88–0.92] | 0.79 ms [0.78–0.80] | unsupported | unsupported | unsupported | 0.47 ms [0.45–0.51] | 1.40 ms [1.36–1.57] | 1.01 ms [1.00–1.03] | unsupported | 0.48 ms [0.47–0.49] |
-| 1 | 2 | 1.42 ms [1.40–1.80] | 1.26 ms [1.24–1.31] | unsupported | unsupported | unsupported | 0.83 ms [0.81–0.89] | 1.99 ms [1.89–2.02] | 1.53 ms [1.48–1.58] | unsupported | 0.89 ms [0.89–0.91] |
-| 10 | 1 | 1.03 ms [1.02–1.04] | 1.14 ms [0.94–1.17] | unsupported | unsupported | unsupported | 0.52 ms [0.50–0.57] | 2.23 ms [2.18–2.30] | 1.14 ms [1.13–1.20] | unsupported | 0.47 ms [0.47–0.49] |
-| 10 | 2 | 1.57 ms [1.55–1.59] | 1.48 ms [1.48–1.49] | unsupported | unsupported | unsupported | 0.92 ms [0.90–1.00] | 4.09 ms [4.05–4.14] | 1.69 ms [1.66–1.72] | unsupported | 0.96 ms [0.96–1.01] |
-| 60 | 1 | 0.96 ms [0.95–1.08] | 0.90 ms [0.87–1.07] | unsupported | unsupported | unsupported | 0.51 ms [0.50–0.57] | 2.20 ms [2.16–2.63] | 1.07 ms [1.04–1.09] | unsupported | 0.52 ms [0.51–0.53] |
-| 60 | 2 | 1.62 ms [1.61–1.63] | 1.53 ms [1.52–1.55] | unsupported | unsupported | unsupported | 0.95 ms [0.93–1.05] | 3.66 ms [3.62–3.74] | 1.74 ms [1.70–1.77] | unsupported | 1.05 ms [1.03–1.05] |
-| 300 | 1 | 0.95 ms [0.94–0.97] | 0.88 ms [0.87–0.93] | unsupported | unsupported | unsupported | 0.51 ms [0.49–0.59] | 2.23 ms [2.21–2.28] | 1.06 ms [1.02–1.09] | unsupported | 0.54 ms [0.54–0.55] |
-| 300 | 2 | 1.61 ms [1.60–1.63] | 1.52 ms [1.51–1.80] | unsupported | unsupported | unsupported | 0.94 ms [0.93–1.05] | 4.18 ms [4.14–4.23] | 1.73 ms [1.69–1.81] | unsupported | 1.02 ms [1.02–1.04] |
+| 1 | 1 | 0.83 ms [0.82–0.85] | 0.79 ms [0.78–0.80] | unsupported | unsupported | unsupported | 0.46 ms [0.45–0.49] | 1.39 ms [1.37–1.43] | 1.04 ms [1.02–1.06] | unsupported | unsupported |
+| 1 | 2 | 1.33 ms [1.31–1.35] | 1.28 ms [1.27–1.30] | unsupported | unsupported | unsupported | 0.80 ms [0.79–0.85] | 1.91 ms [1.88–1.93] | 1.55 ms [1.54–1.56] | unsupported | unsupported |
+| 10 | 1 | 5.53 ms [5.51–5.57] | 5.50 ms [5.45–5.51] | unsupported | unsupported | unsupported | 3.23 ms [3.22–3.38] | 6.88 ms [6.83–6.99] | 6.31 ms [6.28–6.32] | unsupported | unsupported |
+| 10 | 2 | 10.69 ms [10.66–10.73] | 10.68 ms [10.60–10.72] | unsupported | unsupported | unsupported | 6.88 ms [6.77–7.02] | 11.94 ms [11.87–12.00] | 11.47 ms [11.45–11.55] | unsupported | unsupported |
+| 60 | 1 | 31.66 ms [31.60–31.78] | 31.54 ms [31.50–31.63] | unsupported | unsupported | unsupported | 19.21 ms [19.03–19.51] | 37.24 ms [37.10–37.81] | 35.70 ms [35.64–35.83] | unsupported | unsupported |
+| 60 | 2 | 63.14 ms [63.01–63.21] | 63.13 ms [63.02–63.21] | unsupported | unsupported | unsupported | 40.88 ms [40.76–41.27] | 67.16 ms [67.06–67.41] | 66.92 ms [66.87–67.05] | unsupported | unsupported |
+| 300 | 1 | 165.91 ms [165.63–166.08] | 165.49 ms [165.43–166.66] | unsupported | unsupported | unsupported | 103.20 ms [102.58–104.10] | 219.43 ms [202.64–222.32] | 185.90 ms [185.63–186.13] | unsupported | unsupported |
+| 300 | 2 | 347.33 ms [346.78–347.83] | 346.48 ms [346.28–346.83] | unsupported | unsupported | unsupported | 241.87 ms [241.12–242.73] | 387.12 ms [386.14–387.76] | 348.94 ms [348.70–349.52] | unsupported | unsupported |
 
 ## mp3 / full
 
 | Duration (s) | Channels | soundfile | librosa | scipy | scipy_mmap | audioread | pedalboard | torchcodec | audiolab | audiosample | sphn |
 | --- | --- | --- | --- | --- | --- | --- | --- | --- | --- | --- | --- |
-| 1 | 1 | 1.10 ms [1.08–1.15] | 1.08 ms [1.06–1.10] | unsupported | unsupported | 15.28 ms [14.12–16.22] | 1.97 ms [1.91–2.30] | 1.81 ms [1.78–2.05] | 1.30 ms [1.29–1.36] | unsupported | 0.83 ms [0.82–0.84] |
-| 1 | 2 | 1.73 ms [1.70–1.74] | 1.64 ms [1.61–1.66] | unsupported | unsupported | 15.95 ms [14.42–18.49] | 2.78 ms [2.72–3.30] | 2.33 ms [2.27–2.65] | 1.87 ms [1.85–1.90] | unsupported | 1.54 ms [1.53–1.63] |
-| 10 | 1 | 7.92 ms [7.89–7.97] | 7.87 ms [7.84–7.92] | unsupported | unsupported | 24.79 ms [23.57–28.18] | 18.30 ms [17.60–18.68] | 9.02 ms [8.95–9.17] | 8.93 ms [8.92–9.06] | unsupported | 6.92 ms [6.86–6.96] |
-| 10 | 2 | 13.42 ms [13.36–13.58] | 13.41 ms [13.35–13.47] | unsupported | unsupported | 30.42 ms [27.28–32.12] | 26.04 ms [25.97–27.30] | 13.32 ms [13.28–13.50] | 14.80 ms [14.77–14.90] | unsupported | 13.67 ms [13.62–13.79] |
-| 60 | 1 | 45.64 ms [45.56–45.76] | 46.67 ms [46.35–46.90] | unsupported | unsupported | 68.63 ms [66.71–71.16] | 107.70 ms [107.46–110.10] | 49.36 ms [49.05–50.17] | 50.76 ms [50.69–50.95] | unsupported | 40.26 ms [40.11–40.40] |
-| 60 | 2 | 79.63 ms [79.31–79.98] | 79.43 ms [79.31–79.63] | unsupported | unsupported | 104.18 ms [101.04–124.21] | 155.85 ms [155.02–160.46] | 74.96 ms [74.69–78.41] | 85.31 ms [85.22–85.75] | unsupported | 81.78 ms [81.64–82.14] |
-| 300 | 1 | 232.66 ms [232.39–233.27] | 231.19 ms [230.90–231.46] | unsupported | unsupported | 308.96 ms [297.00–378.87] | 545.32 ms [544.45–552.68] | 254.96 ms [254.58–255.82] | 260.06 ms [259.81–260.36] | unsupported | 235.83 ms [235.62–236.30] |
-| 300 | 2 | 424.69 ms [424.32–427.40] | 434.65 ms [434.34–438.28] | unsupported | unsupported | 506.30 ms [500.48–614.00] | 792.88 ms [780.74–798.94] | 402.02 ms [401.33–403.39] | 438.57 ms [438.15–444.16] | unsupported | 472.63 ms [471.68–474.39] |
+| 1 | 1 | 1.07 ms [1.07–1.08] | 1.07 ms [1.06–1.13] | unsupported | unsupported | 17.88 ms [16.92–18.99] | 1.92 ms [1.90–1.94] | 1.79 ms [1.76–1.81] | 1.28 ms [1.27–1.30] | unsupported | 0.84 ms [0.83–0.86] |
+| 1 | 2 | 1.65 ms [1.64–1.68] | 1.64 ms [1.63–1.67] | unsupported | unsupported | 18.63 ms [17.31–19.18] | 2.72 ms [2.69–2.76] | 2.28 ms [2.25–2.34] | 1.88 ms [1.84–1.91] | unsupported | 1.53 ms [1.52–1.55] |
+| 10 | 1 | 7.85 ms [7.82–7.98] | 7.84 ms [7.83–7.90] | unsupported | unsupported | 27.46 ms [26.47–28.35] | 17.33 ms [17.25–17.52] | 9.10 ms [9.08–9.23] | 8.91 ms [8.90–9.02] | unsupported | 6.86 ms [6.78–6.90] |
+| 10 | 2 | 13.51 ms [13.47–13.60] | 13.47 ms [13.40–13.55] | unsupported | unsupported | 31.87 ms [30.91–33.09] | 24.95 ms [24.75–25.02] | 13.41 ms [13.35–13.60] | 14.68 ms [14.65–14.79] | unsupported | 13.55 ms [13.50–13.57] |
+| 60 | 1 | 45.43 ms [45.37–45.58] | 45.44 ms [45.42–45.57] | unsupported | unsupported | 71.69 ms [70.76–72.09] | 103.60 ms [103.22–103.79] | 49.23 ms [49.21–49.49] | 50.90 ms [50.86–51.07] | unsupported | 40.06 ms [39.95–40.26] |
+| 60 | 2 | 79.56 ms [79.41–79.99] | 79.73 ms [79.50–80.04] | unsupported | unsupported | 103.84 ms [102.90–104.83] | 148.60 ms [148.19–148.77] | 74.90 ms [74.75–74.95] | 84.73 ms [84.60–84.88] | unsupported | 81.70 ms [81.57–82.02] |
+| 300 | 1 | 231.85 ms [231.63–232.10] | 231.76 ms [231.62–231.94] | unsupported | unsupported | 294.28 ms [290.80–297.77] | 522.50 ms [521.73–523.77] | 255.80 ms [255.62–256.19] | 260.92 ms [260.30–262.36] | unsupported | 236.11 ms [235.82–236.65] |
+| 300 | 2 | 425.24 ms [425.04–425.40] | 423.08 ms [422.54–423.39] | unsupported | unsupported | 499.37 ms [497.17–503.40] | 752.81 ms [751.66–753.22] | 404.28 ms [403.78–404.92] | 436.84 ms [436.63–437.27] | unsupported | 468.21 ms [468.05–469.10] |
 
 ## mp3 / seek
 
+| Duration (s) | Channels | Chunk (s) | soundfile | librosa | scipy | scipy_mmap | audioread | pedalboard | torchcodec | audiolab | audiosample | sphn |
+| --- | --- | --- | --- | --- | --- | --- | --- | --- | --- | --- | --- | --- |
+| 1 | 1 | 1.0 | 1.17 ms [1.16–1.39] | 1.08 ms [1.07–1.11] | unsupported | unsupported | unsupported | 1.91 ms [1.89–1.92] | 1.75 ms [1.75–1.78] | 1.26 ms [1.25–1.28] | unsupported | 0.80 ms [0.79–0.82] |
+| 1 | 2 | 1.0 | 1.74 ms [1.71–1.76] | 1.65 ms [1.64–1.66] | unsupported | unsupported | unsupported | 2.67 ms [2.66–2.73] | 2.28 ms [2.24–2.33] | 1.83 ms [1.80–1.88] | unsupported | 1.49 ms [1.48–1.50] |
+| 10 | 1 | 1.0 | 1.41 ms [1.41–1.44] | 1.32 ms [1.32–1.33] | unsupported | unsupported | unsupported | 11.13 ms [11.08–11.31] | 2.01 ms [2.00–2.06] | 1.52 ms [1.49–1.54] | unsupported | 0.84 ms [0.83–0.85] |
+| 10 | 1 | 3.0 | 2.90 ms [2.88–2.91] | 2.80 ms [2.78–2.82] | unsupported | unsupported | unsupported | 14.58 ms [14.53–14.66] | 3.55 ms [3.52–3.60] | 3.33 ms [3.30–3.34] | unsupported | 2.17 ms [2.14–2.21] |
+| 10 | 1 | 10.0 | 7.93 ms [7.90–7.94] | 7.83 ms [7.81–7.86] | unsupported | unsupported | unsupported | 17.31 ms [17.23–17.41] | 9.05 ms [9.02–9.10] | 8.93 ms [8.89–8.97] | unsupported | 6.67 ms [6.64–6.89] |
+| 10 | 2 | 1.0 | 1.99 ms [1.96–2.00] | 1.89 ms [1.88–1.95] | unsupported | unsupported | unsupported | 14.65 ms [14.58–14.74] | 2.50 ms [2.44–2.55] | 2.08 ms [2.05–2.09] | unsupported | 1.51 ms [1.51–1.53] |
+| 10 | 2 | 3.0 | 4.66 ms [4.65–4.83] | 4.55 ms [4.53–4.60] | unsupported | unsupported | unsupported | 22.11 ms [22.03–22.27] | 5.07 ms [5.01–5.14] | 5.18 ms [5.17–5.20] | unsupported | 4.20 ms [4.19–4.22] |
+| 10 | 2 | 10.0 | 13.54 ms [13.48–13.70] | 13.48 ms [13.39–13.67] | unsupported | unsupported | unsupported | 24.87 ms [24.69–25.02] | 13.66 ms [13.64–13.81] | 14.63 ms [14.60–14.82] | unsupported | 13.34 ms [13.31–13.47] |
+| 60 | 1 | 1.0 | 2.63 ms [2.60–2.71] | 2.53 ms [2.51–2.56] | unsupported | unsupported | unsupported | 72.06 ms [71.94–72.25] | 3.11 ms [3.04–3.14] | 2.71 ms [2.69–2.73] | unsupported | 1.04 ms [1.03–1.05] |
+| 60 | 1 | 3.0 | 3.71 ms [3.67–3.73] | 3.62 ms [3.60–3.63] | unsupported | unsupported | unsupported | 54.00 ms [53.84–54.09] | 4.31 ms [4.25–4.41] | 4.12 ms [4.11–4.13] | unsupported | 2.29 ms [2.27–2.30] |
+| 60 | 1 | 10.0 | 8.66 ms [8.64–8.80] | 8.56 ms [8.54–8.67] | unsupported | unsupported | unsupported | 49.44 ms [49.31–49.61] | 9.37 ms [9.36–9.50] | 9.62 ms [9.60–9.68] | unsupported | 6.87 ms [6.79–7.04] |
+| 60 | 1 | 30.0 | 23.66 ms [23.60–23.73] | 23.55 ms [23.53–23.61] | unsupported | unsupported | unsupported | 81.20 ms [81.00–81.53] | 24.64 ms [24.58–24.66] | 26.41 ms [26.34–26.52] | unsupported | 19.93 ms [19.89–20.07] |
+| 60 | 2 | 1.0 | 2.75 ms [2.71–2.77] | 2.66 ms [2.65–2.74] | unsupported | unsupported | unsupported | 67.80 ms [67.64–68.06] | 3.20 ms [3.07–3.25] | 2.84 ms [2.82–2.90] | unsupported | 1.63 ms [1.63–1.65] |
+| 60 | 2 | 3.0 | 5.28 ms [5.26–5.33] | 5.20 ms [5.18–5.23] | unsupported | unsupported | unsupported | 67.37 ms [67.19–67.47] | 5.59 ms [5.55–5.63] | 5.81 ms [5.75–5.86] | unsupported | 4.24 ms [4.20–4.24] |
+| 60 | 2 | 10.0 | 14.51 ms [14.49–14.58] | 14.41 ms [14.37–14.45] | unsupported | unsupported | unsupported | 83.87 ms [83.58–83.99] | 14.18 ms [14.13–14.34] | 15.66 ms [15.55–15.79] | unsupported | 13.55 ms [13.54–13.57] |
+| 60 | 2 | 30.0 | 41.04 ms [40.89–42.06] | 40.92 ms [40.80–40.98] | unsupported | unsupported | unsupported | 135.94 ms [135.52–136.09] | 38.80 ms [38.78–38.93] | 43.75 ms [43.66–43.88] | unsupported | 39.86 ms [39.82–39.90] |
+| 300 | 1 | 1.0 | 8.25 ms [8.19–8.27] | 8.16 ms [8.08–8.24] | unsupported | unsupported | unsupported | 355.32 ms [355.05–355.85] | 7.79 ms [7.70–8.06] | 8.25 ms [8.16–8.38] | unsupported | 1.89 ms [1.87–1.91] |
+| 300 | 1 | 3.0 | 5.84 ms [5.78–5.86] | 5.71 ms [5.69–5.73] | unsupported | unsupported | unsupported | 159.72 ms [159.68–159.96] | 6.08 ms [5.96–6.15] | 6.22 ms [6.18–6.24] | unsupported | 2.62 ms [2.60–2.69] |
+| 300 | 1 | 10.0 | 14.26 ms [14.24–14.33] | 14.19 ms [14.16–14.23] | unsupported | unsupported | unsupported | 333.68 ms [333.32–333.91] | 14.29 ms [14.15–14.38] | 15.19 ms [15.15–15.33] | unsupported | 7.68 ms [7.62–7.83] |
+| 300 | 1 | 30.0 | 26.96 ms [26.89–27.06] | 26.90 ms [26.83–26.92] | unsupported | unsupported | unsupported | 247.22 ms [246.94–247.71] | 27.54 ms [27.44–27.72] | 29.75 ms [29.68–29.87] | unsupported | 20.53 ms [20.40–20.62] |
+| 300 | 2 | 1.0 | 5.49 ms [5.49–5.57] | 5.36 ms [5.35–5.41] | unsupported | unsupported | unsupported | 260.13 ms [259.74–260.25] | 5.47 ms [5.41–5.55] | 5.55 ms [5.48–5.57] | unsupported | 2.10 ms [2.08–2.16] |
+| 300 | 2 | 3.0 | 9.06 ms [9.04–9.14] | 8.93 ms [8.89–9.02] | unsupported | unsupported | unsupported | 338.93 ms [338.39–339.41] | 8.80 ms [8.60–8.91] | 9.54 ms [9.51–9.61] | unsupported | 4.82 ms [4.75–4.88] |
+| 300 | 2 | 10.0 | 17.65 ms [17.59–17.73] | 17.47 ms [17.40–17.53] | unsupported | unsupported | unsupported | 307.12 ms [306.71–307.68] | 16.84 ms [16.79–16.98] | 18.78 ms [18.67–18.81] | unsupported | 14.08 ms [14.07–14.17] |
+| 300 | 2 | 30.0 | 46.90 ms [46.81–47.43] | 46.60 ms [46.37–46.73] | unsupported | unsupported | unsupported | 563.50 ms [563.32–563.96] | 43.99 ms [43.78–44.28] | 49.72 ms [49.57–49.90] | unsupported | 41.06 ms [40.97–41.32] |
+
+## mp3 / bytes
+
 | Duration (s) | Channels | soundfile | librosa | scipy | scipy_mmap | audioread | pedalboard | torchcodec | audiolab | audiosample | sphn |
 | --- | --- | --- | --- | --- | --- | --- | --- | --- | --- | --- | --- |
-| 1 | 1 | 1.20 ms [1.17–1.45] | 1.13 ms [1.06–1.46] | unsupported | unsupported | unsupported | 2.02 ms [1.89–2.21] | 1.75 ms [1.72–1.99] | 1.27 ms [1.26–1.30] | unsupported | 0.79 ms [0.78–0.81] |
-| 1 | 2 | 1.82 ms [1.79–2.05] | 1.64 ms [1.63–1.71] | unsupported | unsupported | unsupported | 2.72 ms [2.68–3.21] | 2.26 ms [2.23–2.32] | 1.84 ms [1.81–1.88] | unsupported | 1.49 ms [1.49–1.51] |
-| 10 | 1 | 1.46 ms [1.43–1.64] | 1.32 ms [1.32–1.33] | unsupported | unsupported | unsupported | 12.15 ms [11.36–12.90] | 1.97 ms [1.91–1.98] | 1.53 ms [1.50–1.55] | unsupported | 0.83 ms [0.82–0.85] |
-| 10 | 2 | 1.92 ms [1.91–1.94] | 1.81 ms [1.80–1.85] | unsupported | unsupported | unsupported | 10.05 ms [9.19–10.31] | 2.43 ms [2.35–2.51] | 2.03 ms [2.00–2.04] | unsupported | 1.51 ms [1.50–1.53] |
-| 60 | 1 | 2.72 ms [2.69–2.74] | 2.55 ms [2.53–3.06] | unsupported | unsupported | unsupported | 77.77 ms [77.42–79.81] | 3.01 ms [2.94–3.09] | 2.72 ms [2.69–2.82] | unsupported | 1.00 ms [0.99–1.08] |
-| 60 | 2 | 2.76 ms [2.73–2.78] | 2.59 ms [2.57–2.61] | unsupported | unsupported | unsupported | 64.76 ms [63.57–65.41] | 3.07 ms [2.96–3.11] | 2.79 ms [2.73–2.82] | unsupported | 1.68 ms [1.67–1.69] |
-| 300 | 1 | 4.39 ms [4.35–4.52] | 4.12 ms [4.10–4.13] | unsupported | unsupported | unsupported | 164.41 ms [163.39–168.40] | 4.28 ms [4.22–4.44] | 4.29 ms [4.22–4.32] | unsupported | 1.23 ms [1.21–1.28] |
-| 300 | 2 | 5.34 ms [5.28–5.36] | 5.90 ms [5.01–6.03] | unsupported | unsupported | unsupported | 251.10 ms [250.52–252.51] | 4.99 ms [4.93–5.08] | 5.15 ms [5.10–5.18] | unsupported | 1.99 ms [1.98–2.01] |
+| 1 | 1 | 1.10 ms [1.09–1.11] | 1.10 ms [1.09–1.11] | unsupported | unsupported | unsupported | 1.95 ms [1.92–1.96] | 1.76 ms [1.72–1.83] | 1.31 ms [1.29–1.35] | unsupported | unsupported |
+| 1 | 2 | 1.68 ms [1.66–1.69] | 1.69 ms [1.67–1.69] | unsupported | unsupported | unsupported | 2.78 ms [2.75–2.78] | 2.23 ms [2.20–2.24] | 1.88 ms [1.87–1.92] | unsupported | unsupported |
+| 10 | 1 | 8.04 ms [8.03–8.05] | 8.05 ms [8.03–8.19] | unsupported | unsupported | unsupported | 17.42 ms [17.32–17.48] | 9.04 ms [9.01–9.14] | 9.17 ms [9.15–9.22] | unsupported | unsupported |
+| 10 | 2 | 13.66 ms [13.64–13.78] | 13.67 ms [13.58–13.74] | unsupported | unsupported | unsupported | 24.94 ms [24.84–25.02] | 13.33 ms [13.30–13.39] | 14.95 ms [14.93–14.98] | unsupported | unsupported |
+| 60 | 1 | 46.73 ms [46.65–46.89] | 46.75 ms [46.70–46.89] | unsupported | unsupported | unsupported | 103.49 ms [103.35–103.67] | 49.05 ms [48.99–49.38] | 52.39 ms [52.18–52.52] | unsupported | unsupported |
+| 60 | 2 | 80.77 ms [80.66–81.01] | 80.74 ms [80.61–80.92] | unsupported | unsupported | unsupported | 148.66 ms [148.23–149.23] | 74.61 ms [74.53–74.96] | 86.18 ms [86.10–86.60] | unsupported | unsupported |
+| 300 | 1 | 238.62 ms [238.47–238.79] | 238.47 ms [238.33–238.87] | unsupported | unsupported | unsupported | 522.56 ms [522.02–523.13] | 254.19 ms [253.58–254.84] | 269.02 ms [268.53–270.17] | unsupported | unsupported |
+| 300 | 2 | 431.38 ms [431.10–431.90] | 429.24 ms [428.86–429.54] | unsupported | unsupported | unsupported | 753.22 ms [752.66–753.47] | 402.32 ms [401.28–403.31] | 444.74 ms [444.40–445.19] | unsupported | unsupported |
 
 ## Unavailable and incorrect libraries
 
@@ -115,4 +202,4 @@ Every probed library was available and passed the correctness gate.
 
 ## Measurement noise
 
-Across 352 `ok` measurements, the observed dispersion `IQR / median` ranges from 0.1% to 19.1%, with a median of 1.5%. That is the measurement-noise floor of this run: differences between libraries, formats, or durations smaller than this floor are noise, not rankings. The interquartile range is reported rather than max-min because the full range grows with the trial count, which would make runs using different `--repeat` values incomparable.
+Across 808 `ok` measurements, the observed dispersion `IQR / median` ranges from 0.0% to 14.5%, with a median of 0.7%. That is the measurement-noise floor of this run: differences between libraries, formats, or durations smaller than this floor are noise, not rankings. The interquartile range is reported rather than max-min because the full range grows with the trial count, which would make runs using different `--repeat` values incomparable.
